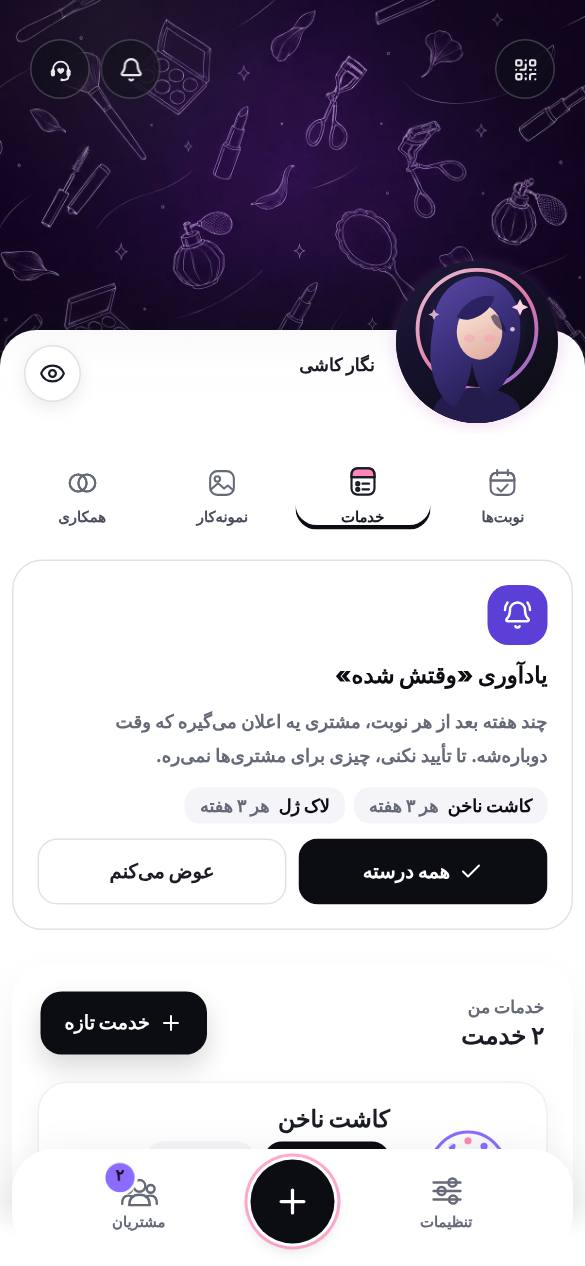
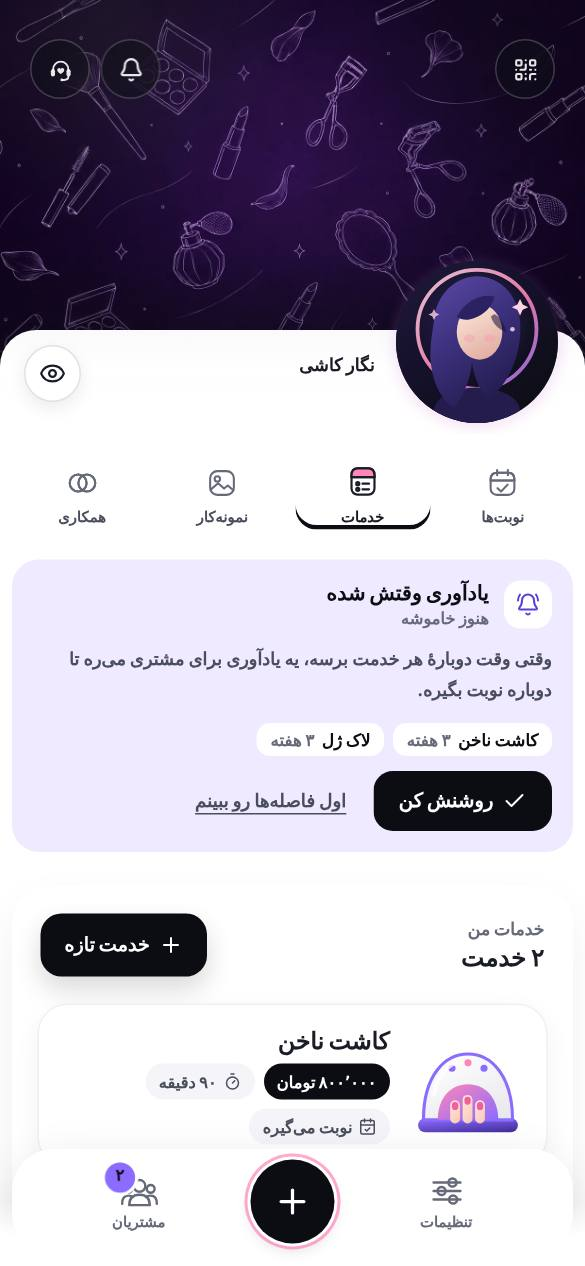
Calmer «وقتش شده» card on the services page
Soft tinted card with a small header, one plain line, short gap chips and a
single main button («روشنش کن») next to a text link; the section below no
longer repeats the warning. Screenshots retaken.

Claude-Session: https://claude.ai/code/session_01JhytygxMTvR2P3dLGK6pEB

diff --git a/app/features/dueReminders/DueReminders.jsx b/app/features/dueReminders/DueReminders.jsx
@@ -10,7 +10,7 @@ import { DUE_CUSTOM_MAX, DUE_GAP_CHOICES, DUE_TEXTS, dueText, gapLabel } from ".
 
 /**
  * «وقتش شده» on the salon's and the artist's side (owner's decisions of 2026-10-25): a card on the services page that asks
- * once («همه درسته» / «عوض میکنم») and a section below the services where each service's gap and text can be changed.
+ * once («روشنش کن» / «اول فاصلهها رو ببینم») and a section below the services where each service's gap and text can be changed.
  * Nothing goes to the clients until the place has confirmed once.
  */
 
@@ -32,7 +32,7 @@ function useDuePlan(reloadKey) {
 
 /**
  * The services page with «وقتش شده» around it. Until the place has confirmed once, a card above the services asks
- * («همه درسته» / «عوض میکنم»); the full list where each gap and text can be changed sits below them. The question
+ * («روشنش کن» / «اول فاصلهها رو ببینم»); the full list where each gap and text can be changed sits below them. The question
  * lives here, not as a pop-up on the home page (owner's request 2026-10-26: each start-up question in its own section).
  * `reloadKey` changes when the menu changes.
  */
@@ -54,22 +54,27 @@ function DueAskCard({ plan, send }) {
   const shown = plan.services.filter((service) => service.gapDays > 0);
   return (
     <section className="dueCard" aria-labelledby="due-ask-title">
-      <span className="dueCardIcon" aria-hidden="true"><BellRing size={20} /></span>
-      <b id="due-ask-title">یادآوری «وقتش شده»</b>
-      <p>چند هفته بعد از هر نوبت، مشتری یه اعلان میگیره که وقت دوبارهشه. تا تأیید نکنی، چیزی برای مشتریها نمیره.</p>
+      <div className="dueCardHead">
+        <span className="dueCardIcon" aria-hidden="true"><BellRing size={16} /></span>
+        <span>
+          <b id="due-ask-title">یادآوری وقتش شده</b>
+          <small>هنوز خاموشه</small>
+        </span>
+      </div>
+      <p>وقتی وقت دوبارهٔ هر خدمت برسه، یه یادآوری برای مشتری میره تا دوباره نوبت بگیره.</p>
       {shown.length ? (
         <ul className="dueCardList">
-          {shown.slice(0, 6).map((service) => (
-            <li key={service.name}><span>{service.name}</span><em>{gapLabel(service.gapDays)}</em></li>
+          {shown.slice(0, 4).map((service) => (
+            <li key={service.name}><span>{service.name}</span><em>{gapLabel(service.gapDays).replace("هر ", "")}</em></li>
           ))}
-          {shown.length > 6 ? <li className="is-more">و {toPersianDigits(shown.length - 6)} خدمت دیگه</li> : null}
+          {shown.length > 4 ? <li className="is-more">+{toPersianDigits(shown.length - 4)}</li> : null}
         </ul>
-      ) : <p>برای خدمتهات فاصلهٔ معمولی پیدا نکردیم؛ با «عوض میکنم» خودت بذار.</p>}
+      ) : null}
       <div className="dueCardActions">
         <button type="button" className="dueBtn is-main" disabled={busy} onClick={async () => { setBusy(true); await send({ confirm: true }); setBusy(false); }}>
-          <Check size={16} aria-hidden="true" />{busy ? "یه لحظه…" : "همه درسته"}
+          <Check size={16} aria-hidden="true" />{busy ? "یه لحظه…" : "روشنش کن"}
         </button>
-        <button type="button" className="dueBtn" onClick={() => setEditing(true)}>عوض میکنم</button>
+        <button type="button" className="dueLink" onClick={() => setEditing(true)}>{shown.length ? "اول فاصلهها رو ببینم" : "فاصلهها رو بذار"}</button>
       </div>
       <ProfileSheet open={editing} kicker="خدمتها" title="یادآوری وقتش شده" onClose={() => setEditing(false)}>
         <DueRuleList plan={plan} send={send} />
@@ -82,11 +87,7 @@ function DueRulesSection({ plan, send }) {
   return (
     <section className="dueSection" aria-labelledby="due-section-title">
       <h3 id="due-section-title"><BellRing size={16} aria-hidden="true" />یادآوری وقتش شده</h3>
-      <p className={plan.confirmed ? "" : "is-warn"}>
-        {plan.confirmed
-          ? "چند هفته بعد از هر نوبت، مشتری یه اعلان میگیره. برای عوض کردن، روی هر خدمت بزن."
-          : "هنوز تأیید نکردی؛ تا تأیید نکنی، چیزی برای مشتریها نمیره."}
-      </p>
+      <p>{plan.confirmed ? "روشنه. برای عوض کردن فاصله یا متن، روی هر خدمت بزن." : "خاموشه؛ با «روشنش کن» بالای خدمتها روشن میشه."}</p>
       <DueRuleList plan={plan} send={send} />
     </section>
   );

diff --git a/app/styles/features/dueReminders.css b/app/styles/features/dueReminders.css
@@ -1,13 +1,19 @@
 /* «وقتش شده» on the salon's and the artist's side (features/dueReminders, owner's decisions 2026-10-25). */
-.dueCard { display: grid; gap: 10px; margin: 0 0 14px; padding: 16px; border: 1px solid var(--n-200); border-radius: 20px; background: var(--n-0); }
-.dueCard > b { font-size: 0.95rem; font-weight: 950; }
-.dueCard > p { margin: 0; color: var(--n-600); font-size: 0.76rem; font-weight: 750; line-height: 1.9; }
-.dueCardIcon { display: inline-grid; place-items: center; width: 40px; height: 40px; border-radius: 14px; background: var(--fill-violet); color: var(--n-0); }
+.dueCard { display: grid; gap: 10px; margin: 0 0 14px; padding: 14px; border-radius: 18px; background: var(--accent-soft); }
+.dueCardHead { display: flex; align-items: center; gap: 10px; }
+.dueCardHead > span:last-child { display: grid; gap: 1px; }
+.dueCardHead b { font-size: 0.86rem; font-weight: 950; }
+.dueCardHead small { color: var(--n-600); font-size: 0.68rem; font-weight: 800; }
+.dueCardIcon { display: inline-grid; flex: none; place-items: center; width: 32px; height: 32px; border-radius: 11px; background: var(--n-0); color: var(--fill-violet); }
+.dueCard > p { margin: 0; color: var(--n-700); font-size: 0.74rem; font-weight: 750; line-height: 1.8; }
 .dueCardList { display: flex; flex-wrap: wrap; gap: 6px; margin: 0; padding: 0; list-style: none; }
-.dueCardList li { display: inline-flex; gap: 6px; padding: 5px 10px; border-radius: 10px; background: var(--n-50); font-size: 0.74rem; font-weight: 850; }
+.dueCardList li { display: inline-flex; gap: 5px; padding: 4px 9px; border-radius: 9px; background: var(--n-0); font-size: 0.7rem; font-weight: 850; }
 .dueCardList li em { font-style: normal; color: var(--n-600); }
 .dueCardList li.is-more { color: var(--n-600); }
-.dueCardActions { display: grid; grid-template-columns: 1fr 1fr; gap: 8px; }
+.dueCardActions { display: flex; flex-wrap: wrap; align-items: center; gap: 4px 14px; }
+.dueCardActions .dueBtn { min-height: 40px; padding: 0 16px; }
+.dueLink { min-height: 40px; padding: 0 4px; border: 0; background: none; color: var(--n-700); font: inherit; font-size: 0.76rem; font-weight: 850; text-decoration: underline; text-underline-offset: 4px; cursor: pointer; }
+.dueLink:focus-visible { outline: 2px solid var(--n-900); outline-offset: 2px; }
 .dueBtn { display: inline-flex; align-items: center; justify-content: center; gap: 6px; min-height: 44px; padding: 0 14px; border: 1px solid var(--n-200); border-radius: 13px; background: var(--n-0); color: var(--n-900); font: inherit; font-size: 0.82rem; font-weight: 900; cursor: pointer; }
 .dueBtn.is-main { border-color: transparent; background: var(--fill-strong); color: var(--n-0); }
 .dueBtn.is-wide { width: 100%; }
@@ -17,7 +23,6 @@
 .dueSection { display: grid; gap: 10px; margin-top: 18px; padding: 16px; border: 1px solid var(--n-100); border-radius: 20px; background: var(--n-0); }
 .dueSection h3 { display: flex; align-items: center; gap: 8px; margin: 0; font-size: 0.9rem; font-weight: 950; }
 .dueSection > p { margin: 0; color: var(--n-600); font-size: 0.74rem; font-weight: 750; line-height: 1.8; }
-.dueSection > p.is-warn { color: var(--warning); }
 .dueList { display: grid; gap: 6px; margin: 0; padding: 0; list-style: none; }
 .dueList button { display: flex; align-items: center; gap: 10px; width: 100%; min-height: 54px; padding: 8px 12px; border: 1px solid var(--n-100); border-radius: 14px; background: var(--n-25); color: var(--n-900); font: inherit; text-align: start; cursor: pointer; }
 .dueList button > span:not(.serviceIcon) { display: grid; flex: 1; min-width: 0; gap: 2px; }

diff --git a/docs/DECISIONS.md b/docs/DECISIONS.md
@@ -79,4 +79,4 @@ One line each, dated. Claude reads this before asking questions.
 - 2026-10-25: Signing up with a number that already has an account opens the login with the number filled in and the line «این شماره حساب داره؛ با رمزت وارد شو.», instead of an error to read.
 - 2026-10-25: The app keeps saying plainly whether a number has an account (at login and sign-up); the per-number and per-address limits on tries and SMS stay what stops anyone from testing numbers in bulk.
 - 2026-10-25: Sign-up always needs the SMS code whenever SMS works (owner: otherwise anyone can sign up with a number that isn't theirs); the separate switch FRFRO_OTP_REQUIRED=1 is gone, only test setups turn it off with FRFRO_OTP_REQUIRED=0. Accounts made earlier without a code keep working, but bookings a salon made under that number are not tied to them until they prove the number with a code.
-- 2026-10-26: «وقتش شده» confirmation moves off the home page into the services page (owner: start-up questions belong in their own section, not all on home): a card above the services list asks once («همه درسته» / «عوض میکنم»), no pop-up; it replaces the 2026-10-25 pop-up decision.
+- 2026-10-26: «وقتش شده» confirmation moves off the home page into the services page (owner: start-up questions belong in their own section, not all on home): a calm card above the services list («یادآوری وقتش شده»، «هنوز خاموشه»، «روشنش کن» / «اول فاصلهها رو ببینم»), no pop-up; it replaces the 2026-10-25 pop-up decision.
